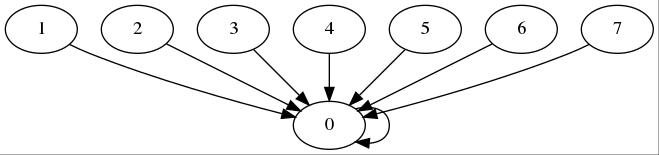
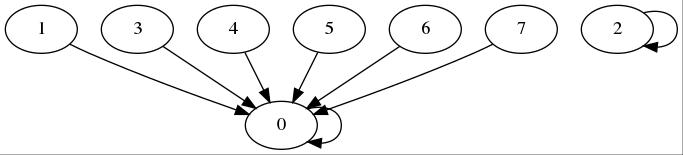
fin recherche composantes connexes

diff --git a/partition/connexe.c b/partition/connexe.c
@@ -4,6 +4,7 @@
 #include <time.h>
 #include "connexe.h"
 
+/*
 void matrice_adjacence(int mat[LIGNES][COLONNES])
 {
     for (int i=0;i<LIGNES;i++)
@@ -63,10 +64,80 @@ void composantes_connexes(int mat[LIGNES][COLONNES], int *classes, int *hauteurs
         //system("display nom");
         fclose(fichiergraph);        
     }
-}   
+}
+*/
+
+//fonction de passage d'un noeud a son entier
+int noeud_entier(int i)
+{
+    return i;   //le numero du noeud correspond a son entier
+}
+
+int *alloc(int *tab, int *taille)
+{
+    *taille *= 2;
+    int *nouvtab = (int *) malloc((*taille) * sizeof(int));
+    for (int k=0;k<(*taille)/2;k++)
+    {
+        nouvtab[k] = tab[k];
+    }
+    return nouvtab;
+}
+
+void ajouter(int *tab, int *taille, int *nb_elements, int i, int j)
+{
+    if (*taille == nb_elements)
+    {
+        tab = alloc(tab,taille);
+    }
+    tab[*nb_elements] = i;
+    (*nb_elements)++;
+    tab[*nb_elements] = j;
+    (*nb_elements)++;
+}
+
+void draw_graph(int *noeuds, int aretes[4*TAILLE], FILE *fichier, int nb_elements)
+{
+    fprintf(fichier,"graph {\n");
+    int k=0;
+
+    for (int l=0;l<TAILLE;l++)
+    {
+        fprintf(fichier,"\t%d\n",noeuds[l]);
+    }
+
+    while (k < nb_elements)
+    {
+        fprintf(fichier,"\t%d -- %d\n", noeud_entier(aretes[k]),noeud_entier(aretes[k+1]));
+        k += 2;
+    }
+    fprintf(fichier,"}");
+}
+
+void composantes_connexes(int *aretes, int nb_elements, int *classes, int *hauteurs)
+{
+    int k=0;
+    while (k<nb_elements)
+    {
+        fusion(noeud_entier(aretes[k]),noeud_entier(aretes[k+1]),classes,hauteurs);
+        k += 2;
+    }
+
+    FILE *fichiergraph = NULL;
+    fichiergraph = fopen("composantes_connexes.dot","w");
+
+
+    if (fichiergraph)
+    {
+        graph_partition(fichiergraph,classes);
+        //system("display nom");
+        fclose(fichiergraph);        
+    }    
+}
 
 int main()
 {
+    /*
     int mat[LIGNES][COLONNES];
     int classes[TAILLE];
     int hauteurs[TAILLE];
@@ -74,11 +145,7 @@ int main()
 
     FILE *fichier = NULL;
     fichier = fopen("graph_matrice.dot", "w");
-    /*
-    FILE *fichier2 = NULL;
-    fichier2 = fopen("graph_partition_test.dot", "w");
-    */
-        
+
     if (fichier == NULL)
     {
         printf("erreur d'ouverture du fichier\n");
@@ -87,9 +154,53 @@ int main()
 
     if (fichier)
     {
+        creer(classes,hauteurs);
         matrice_adjacence(mat);
         graph_matrice(fichier,mat);
         composantes_connexes(mat,classes,hauteurs);
+        fclose(fichier);
+    }
+    */
+
+    int classes[TAILLE];
+    int hauteurs[TAILLE];
+    //srand(time(NULL));
+    srand(42);
+
+    int noeuds[TAILLE];
+    int aretes[4*TAILLE];    //s'assurer que le nombre de cases est pair (couple d'entiers)
+
+    //initialisation
+    for (int i=0;i<TAILLE;i++)
+    {
+        noeuds[i] = i;
+    }
+
+        int taille = 2*TAILLE;
+        int nb_elements = 0;
+        for (int i=0;i<TAILLE;i++)
+        {   
+            for (int j=i+1;j<TAILLE;j++)
+            {
+                int valeur = rand()%2;
+                if (valeur)
+                {
+                    ajouter(aretes,&taille,&nb_elements,i,j);
+                }
+            }
+        }
+
+    FILE *fichier = NULL;
+    fichier = fopen("graph.dot","w");
+
+    if (fichier)
+    {
+        //printf("ok\n");
+        draw_graph(noeuds, aretes,fichier,nb_elements);
+        creer(classes,hauteurs);
+        composantes_connexes(aretes,nb_elements,classes,hauteurs);
+        system("dot -Tjpg graph.dot -o graph.jpg");
+        system("dot -Tjpg composantes_connexes.dot -o composantes_connexes.jpg");
         fclose(fichier);
     }
 }

diff --git a/partition/connexe.h b/partition/connexe.h
@@ -3,8 +3,14 @@
 
 #include "arborescence.h"
 
+int noeud_entier(int i);
+void draw_graph(int *noeuds, int aretes[4*TAILLE], FILE *fichier, int nb_elements);
+void composantes_connexes(int *aretes, int nb_elements, int *classes, int *hauteurs);
+
+/*
 void matrice_adjacence(int mat[LIGNES][COLONNES]);
 void graph_matrice(FILE *fichier, int mat[LIGNES][COLONNES]);
 void composantes_connexes(int mat[LIGNES][COLONNES], int *classes, int *hauteurs);
+*/
 
 #endif
